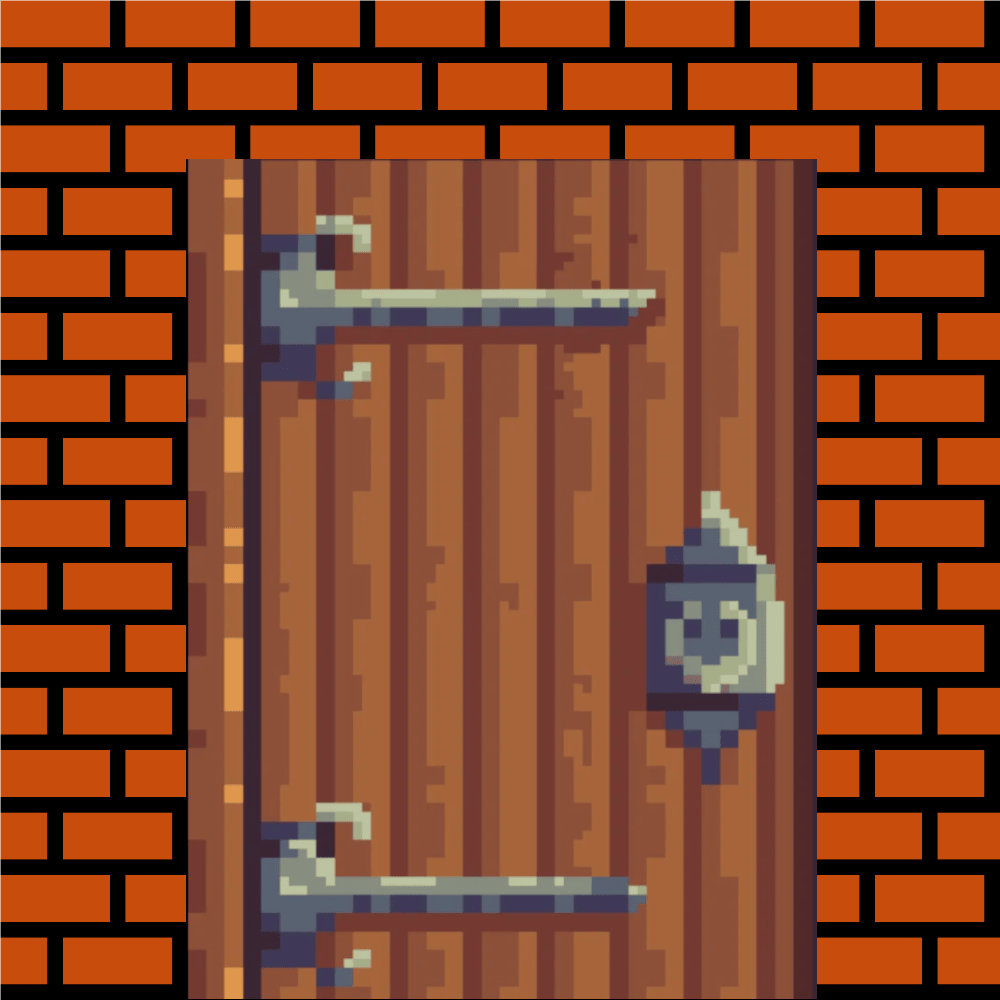
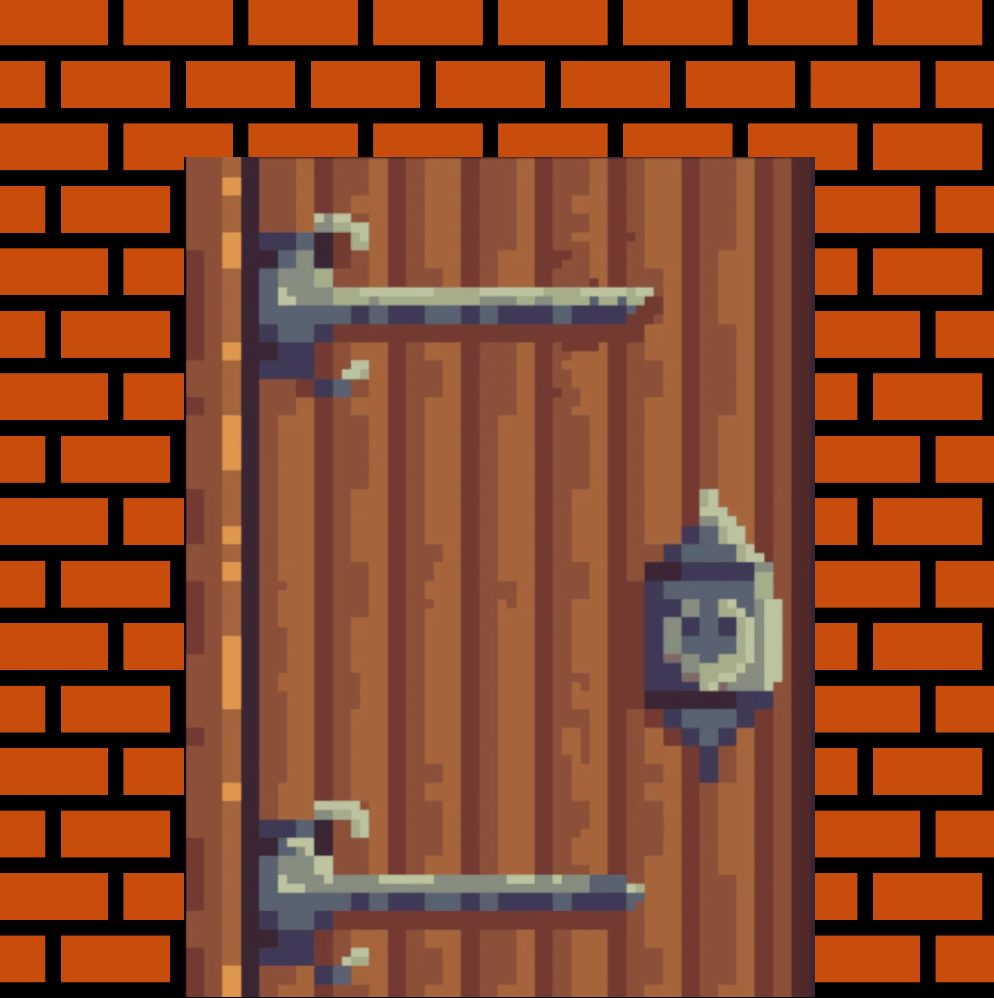
almost finished

diff --git a/movement.c b/movement.c
@@ -6,7 +6,7 @@
 /*   By: vcereced <vcereced@student.42.fr>          +#+  +:+       +#+        */
 /*                                                +#+#+#+#+#+   +#+           */
 /*   Created: 2023/11/15 12:51:54 by vcereced          #+#    #+#             */
-/*   Updated: 2023/11/24 20:28:03 by vcereced         ###   ########.fr       */
+/*   Updated: 2023/11/24 21:22:53 by vcereced         ###   ########.fr       */
 /*                                                                            */
 /* ************************************************************************** */
 
@@ -14,6 +14,8 @@
 
 void	check_key(double *temp, t_data *d)
 {
+	static double pasos;
+	
 	if (mlx_is_key_down(d->mlx, MLX_KEY_W))
 	{
 		temp[0] = d->px + (cos(ft_degre_to_radian(d->angle)) * DIST_FACTOR);
@@ -38,10 +40,24 @@ void	check_key(double *temp, t_data *d)
 		temp[1] = d->py + (sin(ft_degre_to_radian(d->angle + 90)) \
 		* DIST_FACTOR);
 	}
+	if (mlx_is_key_down(d->mlx, MLX_KEY_W) || mlx_is_key_down(d->mlx, MLX_KEY_A) || mlx_is_key_down(d->mlx, MLX_KEY_S) || mlx_is_key_down(d->mlx, MLX_KEY_D))
+	{
+		d->up = abs((int)(15 * sin(pasos * 0.2)));
+		pasos++;
+	}
+		
 }
 
 void	ft_check_key(double *temp, t_data *data)
 {
+	//static up;
+	
+	//pasos++;
+	//data->up = 5 * sin(pasos * 0.2);
+	//if (data->up > 30)
+	//	data->up -= 10;
+	//else if (data->up < -10)
+	//	data->up += 10;
 	check_key(temp, data);
 	if (mlx_is_key_down(data->mlx, MLX_KEY_LEFT))
 		data->angle -= 5;
@@ -76,12 +92,24 @@ int	ft_check_game_over(t_data *d)
 	return (0);
 }
 
+void ft_check_win(t_data *data)
+{
+	static int pas = 0;
+	if (data->map.map_aclean[(int)(data->py)][(int)(data->px)] == 'A')
+	{
+			data->up = abs((int)(100 * sin(pas * 0.2)));
+			pas++;
+		//data->map.map_aclean = data->title.arr;
+	}
+}
+
 void	ft_move_players(t_data *data)
 {
 	double	temp[2];
 
 	temp[0] = data->px;
 	temp[1] = data->py;
+	ft_check_win(data);
 	ft_check_key(temp, data);
 	if (ft_check_game_over(data) == 0)
 	{

diff --git a/raycasting.c b/raycasting.c
@@ -6,7 +6,7 @@
 /*   By: vcereced <vcereced@student.42.fr>          +#+  +:+       +#+        */
 /*                                                +#+#+#+#+#+   +#+           */
 /*   Created: 2023/11/12 17:33:42 by vcereced          #+#    #+#             */
-/*   Updated: 2023/11/24 20:11:15 by vcereced         ###   ########.fr       */
+/*   Updated: 2023/11/24 21:09:56 by vcereced         ###   ########.fr       */
 /*                                                                            */
 /* ************************************************************************** */
 
@@ -68,13 +68,16 @@ void	draw_colision(int rayCount, float a, int n, t_data *data)
 	if (last_colision_arr(data->cast.bonus.type_wall_bonus) == n)
 	{
 		data->map.flag = 0;
-		drawline_game(rayCount, 0, (HEIGHT / 2) - wallheight, data);
+		//drawline_game(rayCount, 0, (HEIGHT / 2) - wallheight, data);
+		drawline_game(rayCount, 0, (HEIGHT / 2) - wallheight + data->up, data);
 		data->map.flag = 1;
-		drawline_game(rayCount, (HEIGHT / 2) + wallheight, HEIGHT, data);
+		//drawline_game(rayCount, (HEIGHT / 2) + wallheight, HEIGHT, data);
+		drawline_game(rayCount, (HEIGHT / 2) + wallheight - data->up, HEIGHT, data);
 	}
 	data->cast.bonus.n = n;
-	drawlinetexture_bonus(rayCount, (HEIGHT / 2) - wallheight, (HEIGHT / 2) \
+	//drawlinetexture_bonus(rayCount, (HEIGHT / 2) - wallheight, (HEIGHT / 2) \
 	+ wallheight, data);
+	drawlinetexture_bonus(rayCount, (HEIGHT / 2) - wallheight - data->up, (HEIGHT / 2) + wallheight - data->up, data);
 }
 
 void	draw_colisions(int rayCount, float angle, int flag, t_data *data)

diff --git a/movement_2.c b/movement_2.c
@@ -6,7 +6,7 @@
 /*   By: vcereced <vcereced@student.42.fr>          +#+  +:+       +#+        */
 /*                                                +#+#+#+#+#+   +#+           */
 /*   Created: 2023/11/24 17:39:44 by vcereced          #+#    #+#             */
-/*   Updated: 2023/11/24 17:43:15 by vcereced         ###   ########.fr       */
+/*   Updated: 2023/11/24 22:13:12 by vcereced         ###   ########.fr       */
 /*                                                                            */
 /* ************************************************************************** */
 
@@ -54,13 +54,15 @@ void	ft_check_interaction(t_data *d)
 	float	x;
 	float	y;
 
-	if (mlx_is_key_down(d->mlx, MLX_KEY_Q))
+	if (mlx_is_key_down(d->mlx, MLX_KEY_Q) && MLX_PRESS)
 	{
-		x = cos(ft_degre_to_radian(d->angle)) * 0.5;
-		y = sin(ft_degre_to_radian(d->angle)) * 0.5;
+		x = cos(ft_degre_to_radian(d->angle)) * 1;
+		y = sin(ft_degre_to_radian(d->angle)) * 1;
 		if (d->map.map_aclean[(int)(d->py + y)][(int)(d->px + x)] == '9')
 			d->map.map_aclean[(int)(d->py + y)][(int)(d->px + x)] = 'B';
 		else if (d->map.map_aclean[(int)(d->py + y)][(int)(d->px + x)] == 'D')
 			d->map.map_aclean[(int)(d->py + y)][(int)(d->px + x)] = 'O';
+		else if (d->map.map_aclean[(int)(d->py + y)][(int)(d->px + x)] == 'O')
+			d->map.map_aclean[(int)(d->py + y)][(int)(d->px + x)] = 'D';
 	}
 }

diff --git a/mini_map.c b/mini_map.c
@@ -3,10 +3,10 @@
 /*                                                        :::      ::::::::   */
 /*   mini_map.c                                         :+:      :+:    :+:   */
 /*                                                    +:+ +:+         +:+     */
-/*   By: dgarizad <dgarizad@student.42.fr>          +#+  +:+       +#+        */
+/*   By: vcereced <vcereced@student.42.fr>          +#+  +:+       +#+        */
 /*                                                +#+#+#+#+#+   +#+           */
 /*   Created: 2023/11/15 12:56:18 by vcereced          #+#    #+#             */
-/*   Updated: 2023/11/24 20:37:50 by dgarizad         ###   ########.fr       */
+/*   Updated: 2023/11/24 21:22:13 by vcereced         ###   ########.fr       */
 /*                                                                            */
 /* ************************************************************************** */
 
@@ -47,7 +47,7 @@ void	draw_squares(t_data *data)
 			data->map.map_aclean[y][x] == '9' || \
 			data->map.map_aclean[y][x] == 'D')
 				paint_square(x, y, 0xFFFFFFFF, data);
-			else if (ft_strchr("0NSEWAGBVZ", data->map.map_aclean[y][x]))
+			else if (ft_strchr("09DSEWNAGBVZ", data->map.map_aclean[y][x]))
 				paint_square(x, y, 0x000000FF, data);
 			x++;
 		}

diff --git a/draw_steven.c b/draw_steven.c
@@ -6,7 +6,7 @@
 /*   By: vcereced <vcereced@student.42.fr>          +#+  +:+       +#+        */
 /*                                                +#+#+#+#+#+   +#+           */
 /*   Created: 2023/11/15 19:04:01 by vcereced          #+#    #+#             */
-/*   Updated: 2023/11/24 20:35:01 by vcereced         ###   ########.fr       */
+/*   Updated: 2023/11/24 21:11:00 by vcereced         ###   ########.fr       */
 /*                                                                            */
 /* ************************************************************************** */
 
@@ -33,8 +33,10 @@ void	ft_draw_steven(float wallheight, int column, t_data *data)
 	while ((data->column_texture) < (data->sprites[ENEMY]->width -10))
 	{
 		data->column_texture = (int)(incremente_texture_column * n);
-		drawlinetexture_bonus(column, ((HEIGHT) / 2), ((HEIGHT) / 2) \
+		//drawlinetexture_bonus(column, ((HEIGHT) / 2), ((HEIGHT) / 2) \
 		+ (wallheight), data);
+		drawlinetexture_bonus(column, ((HEIGHT) / 2) - data->up, ((HEIGHT) / 2) \
+		+ (wallheight) - data->up, data);
 		n++;
 		column++;
 	}

diff --git a/casting.c b/casting.c
@@ -6,7 +6,7 @@
 /*   By: vcereced <vcereced@student.42.fr>          +#+  +:+       +#+        */
 /*                                                +#+#+#+#+#+   +#+           */
 /*   Created: 2023/11/18 12:44:33 by vcereced          #+#    #+#             */
-/*   Updated: 2023/11/24 18:39:20 by vcereced         ###   ########.fr       */
+/*   Updated: 2023/11/24 22:26:49 by vcereced         ###   ########.fr       */
 /*                                                                            */
 /* ************************************************************************** */
 
@@ -114,7 +114,7 @@ float	rays(t_data *data, float angle)
 			}
 			else if (c == 'B' || c == 'O' || c == 'V' || c == 'G' || c == 'A')
 			{
-				if (n < 5)
+				if (n < 8)
 					set_params_colision(n++, data);
 			}
 		}

diff --git a/cub3d.h b/cub3d.h
@@ -6,7 +6,7 @@
 /*   By: vcereced <vcereced@student.42.fr>          +#+  +:+       +#+        */
 /*                                                +#+#+#+#+#+   +#+           */
 /*   Created: 2023/10/20 16:38:02 by dgarizad          #+#    #+#             */
-/*   Updated: 2023/11/24 19:40:49 by vcereced         ###   ########.fr       */
+/*   Updated: 2023/11/24 20:39:08 by vcereced         ###   ########.fr       */
 /*                                                                            */
 /* ************************************************************************** */
 
@@ -178,6 +178,7 @@ typedef struct s_macro_data
 	int			phase;
 	int			column_texture;
 	int			zombie;
+	int			up;
 }	t_data;
 
 //RENDER
